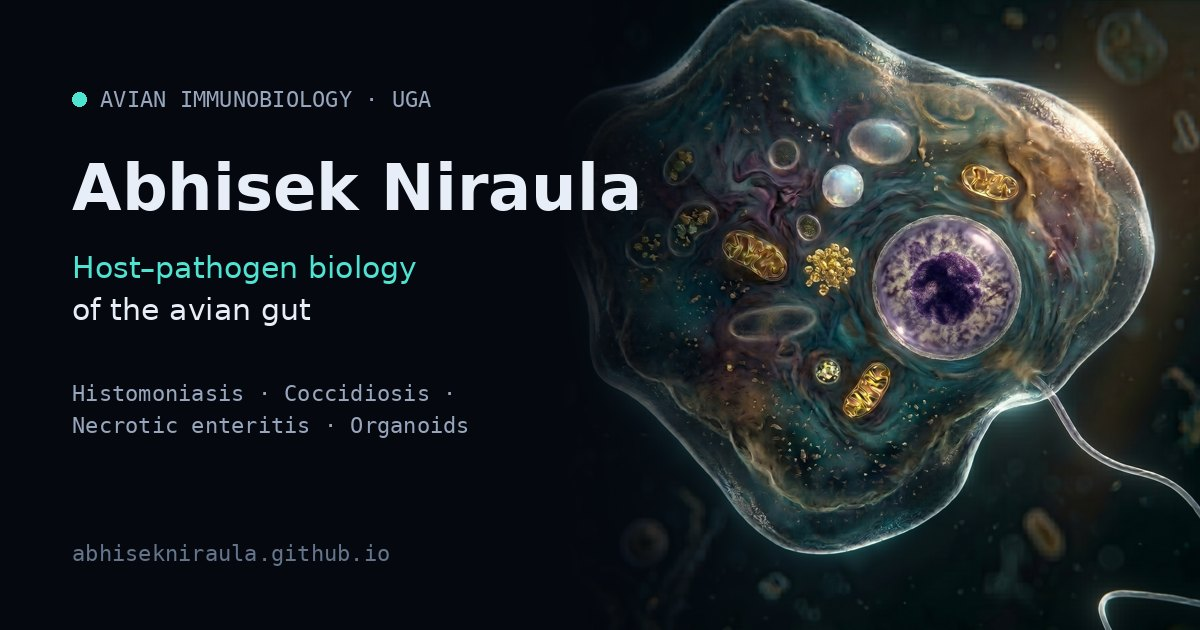
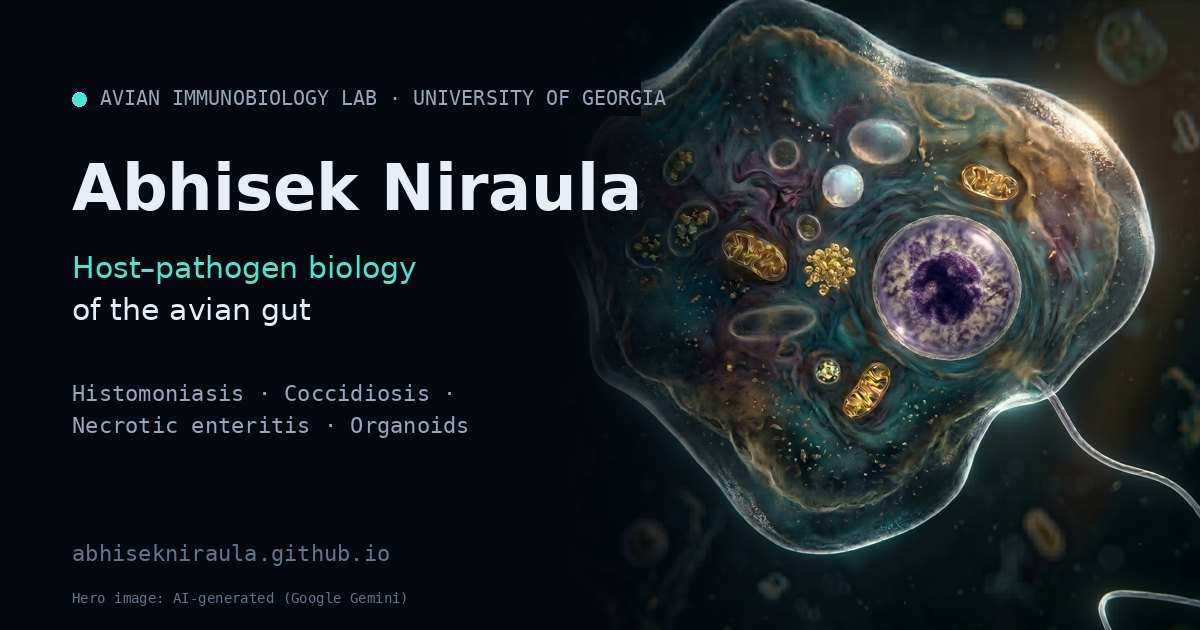
Credit Gemini for hero image; add University of Georgia to header
Claude-Session: https://claude.ai/code/session_01S2Ec6ategjF5ZJkJSDgrq9

Changed region(s): [[0.0925, 0.1206, 0.555, 0.181], [0.0617, 0.9349, 0.3392, 0.9651]]

diff --git a/assets/css/styles.css b/assets/css/styles.css
@@ -183,7 +183,7 @@ em, i { font-style: italic; }
 .brand-mark { width: 34px; height: 34px; flex: none; display: grid; place-items: center; border-radius: 10px; background: var(--surface-2); border: 1px solid var(--line); }
 .brand-mark svg { width: 24px; height: 24px; }
 .brand-name { display: block; font-family: var(--font-display); font-weight: 600; font-size: 17px; letter-spacing: -0.02em; line-height: 1.1; }
-.brand-sub { display: block; font-family: var(--font-mono); font-size: 10.5px; letter-spacing: .12em; text-transform: uppercase; color: var(--muted); line-height: 1.4; white-space: nowrap; }
+.brand-sub { display: block; font-family: var(--font-mono); font-size: 10px; letter-spacing: .12em; text-transform: uppercase; color: var(--muted); line-height: 1.35; white-space: nowrap; }
 .nav { display: flex; align-items: center; gap: 2px; }
 .nav a {
   position: relative; padding: 8px 11px; border-radius: 10px; font-size: 14px; font-weight: 500; color: var(--muted);
@@ -211,7 +211,7 @@ kbd { font-family: var(--font-mono); font-size: 11px; padding: 2px 6px; border-r
 @media (max-width: 560px) {
   .search-trigger span, .search-trigger kbd { display: none; }
   .search-trigger { width: 40px; padding: 0; justify-content: center; }
-  .brand-sub { display: none; }
+  .brand-sub { font-size: 9px; letter-spacing: .06em; }
 }
 
 /* scroll progress + swimming Histomonas */

diff --git a/index.html b/index.html
@@ -64,7 +64,7 @@
     <div class="container header-inner">
       <a href="index.html" class="brand" aria-label="Abhisek Niraula — home">
         <span class="brand-mark"><svg viewBox="0 0 48 48" aria-hidden="true"><use href="#hm"/></svg></span>
-        <span><span class="brand-name">Abhisek Niraula</span><span class="brand-sub">Avian Immunobiology · UGA</span></span>
+        <span><span class="brand-name">Abhisek Niraula</span><span class="brand-sub">Avian Immunobiology Lab</span><span class="brand-sub">University of Georgia</span></span>
       </a>
       <nav class="nav" aria-label="Primary">
         <a href="index.html" aria-current="page">Home</a>
@@ -122,7 +122,7 @@
             <div class="hud hud-tl">Obj <b>100×</b> · Oil<br />Ch <b>DAPI</b> / FITC / TRITC</div>
             <div class="hud hud-br">Stage <b id="hud-xy">X 0000 · Y 0000</b><br />Focus <b id="hud-z" class="u">+0.00 µm</b></div>
             <div class="hud hud-bl"><span class="scalebar"></span><span class="u">10 µm</span></div>
-            <div class="caption-fig" id="hero-caption"><i>Histomonas meleagridis</i> · artistic rendering</div>
+            <div class="caption-fig" id="hero-caption"><i>Histomonas meleagridis</i> · AI-generated illustration (Google Gemini)</div>
           </div>
         </div>
       </div>

diff --git a/assets/js/site-data.js b/assets/js/site-data.js
@@ -17,7 +17,7 @@ window.SITE_DATA = {
     "tagline": "Poultry diseases, immunology, gut health, parasitology, and microbiome bioinformatics",
     "summary": "I am a PhD student and Graduate Research Assistant in the Department of Poultry Science at the University of Georgia. My research focuses on poultry enteric diseases, host–pathogen interactions, immunology, intestinal health, organoid models, and microbiome bioinformatics, with emphasis on histomoniasis, coccidiosis, and necrotic enteritis.",
     "heroImage": "assets/img/histomonas-hero.webp",
-    "heroImageAlt": "Artistic rendering of a Histomonas meleagridis cell with its single flagellum",
+    "heroImageAlt": "AI-generated illustration (Google Gemini) of a Histomonas meleagridis cell with its single flagellum",
     "rotatingFocus": ["histomoniasis", "cecal organoids", "coccidiosis", "necrotic enteritis", "the poultry microbiome"],
     "cvFile": "assets/cv/Abhisek_Niraula_CV.pdf"
   },

diff --git a/404.html b/404.html
@@ -58,7 +58,7 @@
     <div class="container header-inner">
       <a href="index.html" class="brand" aria-label="Abhisek Niraula — home">
         <span class="brand-mark"><svg viewBox="0 0 48 48" aria-hidden="true"><use href="#hm"/></svg></span>
-        <span><span class="brand-name">Abhisek Niraula</span><span class="brand-sub">Avian Immunobiology · UGA</span></span>
+        <span><span class="brand-name">Abhisek Niraula</span><span class="brand-sub">Avian Immunobiology Lab</span><span class="brand-sub">University of Georgia</span></span>
       </a>
       <nav class="nav" aria-label="Primary">
         <a href="index.html">Home</a>

diff --git a/contact.html b/contact.html
@@ -56,7 +56,7 @@
     <div class="container header-inner">
       <a href="index.html" class="brand" aria-label="Abhisek Niraula — home">
         <span class="brand-mark"><svg viewBox="0 0 48 48" aria-hidden="true"><use href="#hm"/></svg></span>
-        <span><span class="brand-name">Abhisek Niraula</span><span class="brand-sub">Avian Immunobiology · UGA</span></span>
+        <span><span class="brand-name">Abhisek Niraula</span><span class="brand-sub">Avian Immunobiology Lab</span><span class="brand-sub">University of Georgia</span></span>
       </a>
       <nav class="nav" aria-label="Primary">
         <a href="index.html">Home</a>

diff --git a/cv.html b/cv.html
@@ -56,7 +56,7 @@
     <div class="container header-inner">
       <a href="index.html" class="brand" aria-label="Abhisek Niraula — home">
         <span class="brand-mark"><svg viewBox="0 0 48 48" aria-hidden="true"><use href="#hm"/></svg></span>
-        <span><span class="brand-name">Abhisek Niraula</span><span class="brand-sub">Avian Immunobiology · UGA</span></span>
+        <span><span class="brand-name">Abhisek Niraula</span><span class="brand-sub">Avian Immunobiology Lab</span><span class="brand-sub">University of Georgia</span></span>
       </a>
       <nav class="nav" aria-label="Primary">
         <a href="index.html">Home</a>

diff --git a/honors.html b/honors.html
@@ -56,7 +56,7 @@
     <div class="container header-inner">
       <a href="index.html" class="brand" aria-label="Abhisek Niraula — home">
         <span class="brand-mark"><svg viewBox="0 0 48 48" aria-hidden="true"><use href="#hm"/></svg></span>
-        <span><span class="brand-name">Abhisek Niraula</span><span class="brand-sub">Avian Immunobiology · UGA</span></span>
+        <span><span class="brand-name">Abhisek Niraula</span><span class="brand-sub">Avian Immunobiology Lab</span><span class="brand-sub">University of Georgia</span></span>
       </a>
       <nav class="nav" aria-label="Primary">
         <a href="index.html">Home</a>

diff --git a/media.html b/media.html
@@ -56,7 +56,7 @@
     <div class="container header-inner">
       <a href="index.html" class="brand" aria-label="Abhisek Niraula — home">
         <span class="brand-mark"><svg viewBox="0 0 48 48" aria-hidden="true"><use href="#hm"/></svg></span>
-        <span><span class="brand-name">Abhisek Niraula</span><span class="brand-sub">Avian Immunobiology · UGA</span></span>
+        <span><span class="brand-name">Abhisek Niraula</span><span class="brand-sub">Avian Immunobiology Lab</span><span class="brand-sub">University of Georgia</span></span>
       </a>
       <nav class="nav" aria-label="Primary">
         <a href="index.html">Home</a>

diff --git a/presentations.html b/presentations.html
@@ -56,7 +56,7 @@
     <div class="container header-inner">
       <a href="index.html" class="brand" aria-label="Abhisek Niraula — home">
         <span class="brand-mark"><svg viewBox="0 0 48 48" aria-hidden="true"><use href="#hm"/></svg></span>
-        <span><span class="brand-name">Abhisek Niraula</span><span class="brand-sub">Avian Immunobiology · UGA</span></span>
+        <span><span class="brand-name">Abhisek Niraula</span><span class="brand-sub">Avian Immunobiology Lab</span><span class="brand-sub">University of Georgia</span></span>
       </a>
       <nav class="nav" aria-label="Primary">
         <a href="index.html">Home</a>

diff --git a/publications.html b/publications.html
@@ -56,7 +56,7 @@
     <div class="container header-inner">
       <a href="index.html" class="brand" aria-label="Abhisek Niraula — home">
         <span class="brand-mark"><svg viewBox="0 0 48 48" aria-hidden="true"><use href="#hm"/></svg></span>
-        <span><span class="brand-name">Abhisek Niraula</span><span class="brand-sub">Avian Immunobiology · UGA</span></span>
+        <span><span class="brand-name">Abhisek Niraula</span><span class="brand-sub">Avian Immunobiology Lab</span><span class="brand-sub">University of Georgia</span></span>
       </a>
       <nav class="nav" aria-label="Primary">
         <a href="index.html">Home</a>

diff --git a/research.html b/research.html
@@ -56,7 +56,7 @@
     <div class="container header-inner">
       <a href="index.html" class="brand" aria-label="Abhisek Niraula — home">
         <span class="brand-mark"><svg viewBox="0 0 48 48" aria-hidden="true"><use href="#hm"/></svg></span>
-        <span><span class="brand-name">Abhisek Niraula</span><span class="brand-sub">Avian Immunobiology · UGA</span></span>
+        <span><span class="brand-name">Abhisek Niraula</span><span class="brand-sub">Avian Immunobiology Lab</span><span class="brand-sub">University of Georgia</span></span>
       </a>
       <nav class="nav" aria-label="Primary">
         <a href="index.html">Home</a>

diff --git a/tools/build_pages.py b/tools/build_pages.py
@@ -131,7 +131,7 @@ def header(page):
     <div class="container header-inner">
       <a href="index.html" class="brand" aria-label="{NAME} — home">
         <span class="brand-mark">{HM}</span>
-        <span><span class="brand-name">{NAME}</span><span class="brand-sub">Avian Immunobiology · UGA</span></span>
+        <span><span class="brand-name">{NAME}</span><span class="brand-sub">Avian Immunobiology Lab</span><span class="brand-sub">University of Georgia</span></span>
       </a>
       <nav class="nav" aria-label="Primary">
 {links}
@@ -228,7 +228,7 @@ BODIES["home"] = """
             <div class="hud hud-tl">Obj <b>100×</b> · Oil<br />Ch <b>DAPI</b> / FITC / TRITC</div>
             <div class="hud hud-br">Stage <b id="hud-xy">X 0000 · Y 0000</b><br />Focus <b id="hud-z" class="u">+0.00 µm</b></div>
             <div class="hud hud-bl"><span class="scalebar"></span><span class="u">10 µm</span></div>
-            <div class="caption-fig" id="hero-caption"><i>Histomonas meleagridis</i> · artistic rendering</div>
+            <div class="caption-fig" id="hero-caption"><i>Histomonas meleagridis</i> · AI-generated illustration (Google Gemini)</div>
           </div>
         </div>
       </div>
